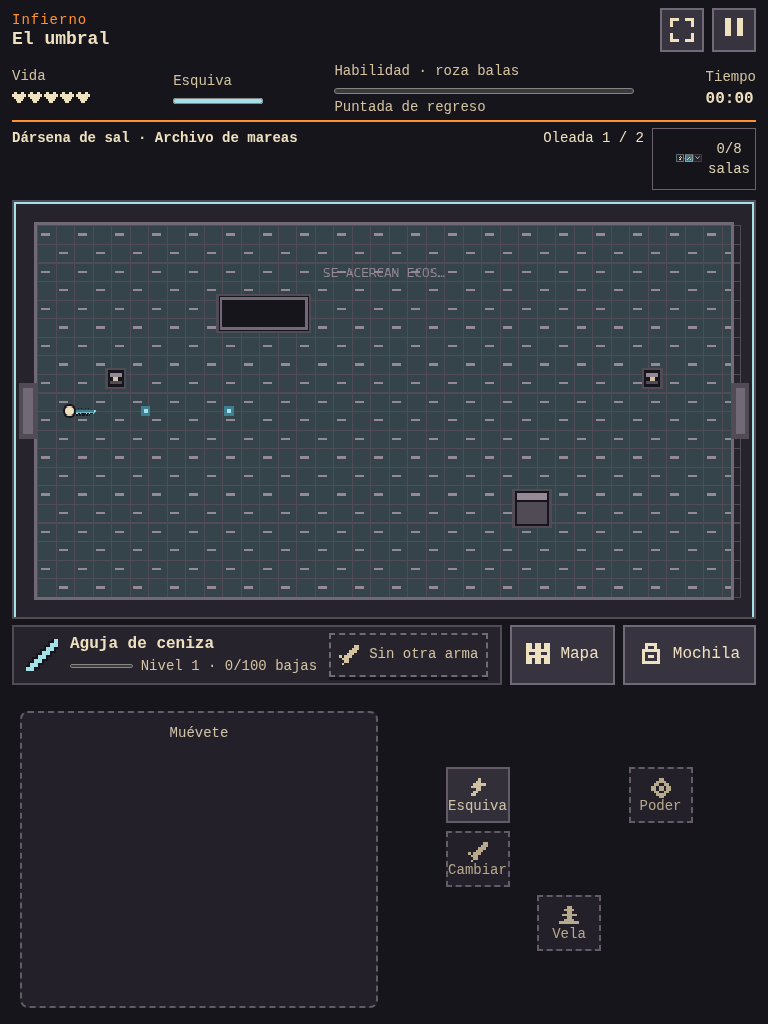
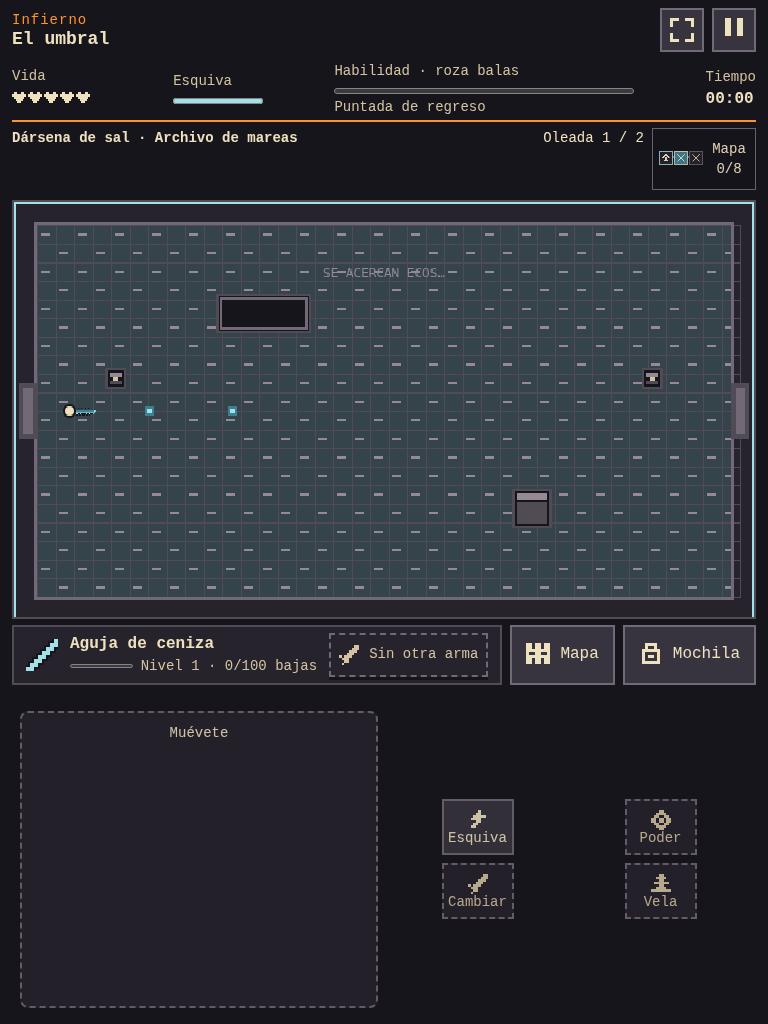
Pulir minimapa, controles móviles y fusiones y verificar la ampliación

diff --git a/src/rooms-content.js b/src/rooms-content.js
@@ -2,16 +2,16 @@ import {expansion as A,roomTemplates,eliteMarks} from './data/expansion.js';
 import {emit} from './projectiles.js';
 // Segmento/caja (slabs): también intercepta proyectiles que cruzan un pilar entero.
 export function boxHit(ax,ay,bx,by,o,r=0){let lo=0,hi=1;const dx=bx-ax,dy=by-ay;for(let axis=0;axis<2;axis++){const p=axis?ay:ax,d=axis?dy:dx,min=(axis?o.y:o.x)-r,max=(axis?o.y+o.h:o.x+o.w)+r;if(Math.abs(d)<1e-9){if(p<min||p>max)return false;}else{let a=(min-p)/d,b=(max-p)/d;if(a>b){const t=a;a=b;b=t;}lo=Math.max(lo,a);hi=Math.min(hi,b);if(lo>hi)return false;}}return true;}
-export function initRoomContent(w){w.scenery=[];w.roomDamage=0;w.roomGraze=0;w.perfectStreak=0;w.lastRank=null;w.eliteReward=false;w.roomDashes=0;w.roomAbilities=0;w.dangerEvents=Array.from({length:A.elite.eventCapacity},()=>({active:false,x:0,y:0,timer:0,kind:'',angle:0,source:null}));loadRoomContent(w);}
+export function initRoomContent(w){w.scenery=[];w.roomDamage=0;w.roomGraze=0;w.perfectStreak=0;w.lastRank=null;w.eliteReward=false;w.roomDashes=0;w.roomAbilities=0;w.dangerEvents=Array.from({length:A.elite.eventCapacity},()=>({active:false,x:0,y:0,timer:0,kind:'',angle:0,source:null,snapshot:null}));loadRoomContent(w);}
 export function loadRoomContent(w){const r=w.rooms[w.roomId];if(!r.scenery){const template=roomTemplates[w.worldIndex][((w.seed>>>0)+r.id*31+w.worldIndex*7)%8];r.template=template.id;r.scenery=['start','boss'].includes(r.kind)?[]:template.objects.map(o=>({...o,active:true,hp:Infinity}));if(!['start','boss'].includes(r.kind))for(const x of [80,544])r.scenery.push({kind:'jar',x,y:144,w:16,h:16,active:true,hp:A.scenery.jarHealth});}w.scenery=r.scenery;w.roomDamage=0;w.roomGraze=w.grazes;w.roomDashes=0;w.roomAbilities=0;w.eliteReward=false;for(const e of w.dangerEvents)e.active=false;}
 export function blocked(w,x,y,r=0){return w.scenery.some(o=>o.active&&boxHit(x,y,x,y,o,r));}
 export function resolveBody(w,body,oldX,oldY){const x=body.x,y=body.y,r=body.radius+A.scenery.bodyMargin;body.x=oldX;body.y=oldY;for(const o of w.scenery)if(o.active&&boxHit(oldX,oldY,x,oldY,o,r)){body.x=oldX;break;}else body.x=x;if(!w.scenery.length)body.x=x;for(const o of w.scenery)if(o.active&&boxHit(body.x,oldY,body.x,y,o,r)){body.y=oldY;return;}body.y=y;}
 export function hitScenery(w,b,allied){for(const o of w.scenery){if(!o.active||o.kind==='pit'||!boxHit(b.px,b.py,b.x,b.y,o,b.radius))continue;if(o.kind==='jar'&&allied){o.hp-=b.damage;if(o.hp<=0){o.active=false;w.roomCoins=Math.min(999,w.roomCoins+A.scenery.jarCoins+(w.familiars?.some(f=>f.id==='glean')?1:0));w.events.push('reward');}}b.active=false;return true;}return false;}
 export function assignMarks(w,e){e.marks=0;e.markShield=false;e.markMirror=false;e.child=false;if(!e.elite)return;const n=w.random()<A.elite.doubleChance?2:1;for(let i=0;i<n;i++){let index=Math.floor(w.random()*eliteMarks.length);if(e.marks&(1<<index))index=(index+1)%eliteMarks.length;e.marks|=1<<index;}e.markShield=!!(e.marks&1);e.markMirror=!!(e.marks&2);if(e.marks&16)e.speed*=A.elite.speed;}
-export function queueDanger(w,e,kind,angle=0){const event=w.dangerEvents.find(v=>!v.active);if(!event)return;Object.assign(event,{active:true,x:e.x,y:e.y,timer:A.elite.warning,kind,angle,source:e,health:e.maxHp});}
+export function queueDanger(w,e,kind,angle=0){const event=w.dangerEvents.find(v=>!v.active);if(!event)return;Object.assign(event,{active:true,x:e.x,y:e.y,timer:A.elite.warning,kind,angle,source:e,snapshot:kind==='divide'?{...e}:null,health:e.maxHp});}
 export function eliteHit(w,e,b){if(e.markShield){e.markShield=false;b.active=false;return true;}if(e.markMirror){e.markMirror=false;b.active=false;queueDanger(w,e,'mirror',Math.atan2(w.player.y-e.y,w.player.x-e.x));return true;}return false;}
 export function eliteDeath(w,e){if(!e.elite||e.child)return;w.roomCoins=Math.min(999,w.roomCoins+A.elite.coins);if(w.random()<A.elite.itemChance)w.eliteReward=true;if(e.marks&4)queueDanger(w,e,'divide');if(e.marks&8)queueDanger(w,e,'revenge',Math.atan2(w.player.y-e.y,w.player.x-e.x));}
-export function updateDanger(w,dt){for(const v of w.dangerEvents){if(!v.active)continue;v.timer-=dt;if(v.timer>0)continue;v.active=false;if(v.kind==='divide'){for(let n=0;n<A.elite.childCount;n++){const e=w.enemies.find(e=>!e.active&&e!==v.source),x=v.x+(n?32:-32),y=v.y;if(!e||blocked(w,x,y,12)||Math.hypot(x-w.player.x,y-w.player.y)<125||x<40||x>600)continue;Object.assign(e,v.source,{id:w.enemies.indexOf(e),active:true,x,y,hp:Math.max(2,v.health*A.elite.childHealth),maxHp:Math.max(2,v.health*A.elite.childHealth),elite:false,marks:0,markShield:false,markMirror:false,child:true,timer:1.4,warning:false,entry:0.8});for(const b of w.allies)b.hits&=~(1<<e.id);}continue;}const count=v.kind==='mirror'?1:A.elite.ringCount;for(let i=0;i<count;i++){const a=v.kind==='mirror'?v.angle:Math.PI*2*i/count;if(v.kind==='revenge'&&Math.abs(Math.atan2(Math.sin(a-v.angle),Math.cos(a-v.angle)))<A.elite.gap)continue;if(Math.hypot(v.x-w.player.x,v.y-w.player.y)<A.elite.safeRadius)continue;emit(w.hostiles,v.x,v.y,a,A.elite.ringSpeed,4,1);}}}
+export function updateDanger(w,dt){for(const v of w.dangerEvents){if(!v.active)continue;v.timer-=dt;if(v.timer>0)continue;v.active=false;if(v.kind==='divide'){for(let n=0;n<A.elite.childCount;n++){const e=w.enemies.find(e=>!e.active&&e!==v.source),x=v.x+(n?32:-32),y=v.y;if(!e||blocked(w,x,y,12)||Math.hypot(x-w.player.x,y-w.player.y)<125||x<40||x>600)continue;Object.assign(e,v.snapshot,{id:w.enemies.indexOf(e),active:true,x,y,hp:Math.max(2,v.health*A.elite.childHealth),maxHp:Math.max(2,v.health*A.elite.childHealth),elite:false,marks:0,markShield:false,markMirror:false,child:true,timer:1.4,warning:false,entry:0.8});for(const b of w.allies)b.hits&=~(1<<e.id);}continue;}const count=v.kind==='mirror'?1:A.elite.ringCount;for(let i=0;i<count;i++){const a=v.kind==='mirror'?v.angle:Math.PI*2*i/count;if(v.kind==='revenge'&&Math.abs(Math.atan2(Math.sin(a-v.angle),Math.cos(a-v.angle)))<A.elite.gap)continue;if(Math.hypot(v.x-w.player.x,v.y-w.player.y)<A.elite.safeRadius)continue;emit(w.hostiles,v.x,v.y,a,A.elite.ringSpeed,4,1);}}}
 export function completeRoomRank(w){if(w.assisted)return null;const r=w.rooms[w.roomId];if(r.rank)return r.rank;const perfect=w.roomDamage===0;const grade=perfect?(w.roomTime<=A.rank.fast||w.grazes-w.roomGraze>=A.rank.graze?'S':w.roomTime<=A.rank.steady?'A':'B'):w.roomDamage<=1?'B':w.roomDamage<=2?'C':'D';if(grade==='S'&&w.feats)w.feats.perfect++;w.perfectStreak=perfect?w.perfectStreak+1:0;const coins=A.rank.coins[grade]+(w.perfectStreak>0&&w.perfectStreak%A.rank.streakEvery===0?A.rank.streakCoins:0);w.roomCoins=Math.min(999,w.roomCoins+coins);r.rank={grade,coins,seconds:Math.round(w.roomTime),damage:w.roomDamage,grazes:w.grazes-w.roomGraze,streak:w.perfectStreak};w.lastRank=r.rank;return r.rank;}
 export function drawRoomContent(ctx,w){for(const o of w.scenery){if(!o.active)continue;ctx.fillStyle='#17151C';ctx.fillRect(o.x,o.y,o.w,o.h);ctx.strokeStyle=w.zone.detail;ctx.lineWidth=2;ctx.strokeRect(o.x,o.y,o.w,o.h);if(o.kind==='pit'){ctx.strokeStyle='#716976';ctx.strokeRect(o.x+3,o.y+3,o.w-6,o.h-6);}else{ctx.fillStyle=w.zone.accent;ctx.fillRect(o.x+3,o.y+3,o.w-6,o.kind==='jar'?4:6);ctx.fillStyle=w.zone.detail;ctx.fillRect(o.x+3,o.y+10,o.w-6,o.h-13);if(o.kind==='jar'){ctx.fillStyle='#D3C3A1';ctx.fillRect(o.x+6,o.y+7,4,3);}}}for(const v of w.dangerEvents)if(v.active){ctx.strokeStyle='#FF922E';ctx.lineWidth=2;ctx.beginPath();ctx.arc(v.x,v.y,12+v.timer*12,0,Math.PI*2);ctx.stroke();ctx.beginPath();ctx.moveTo(v.x,v.y);ctx.lineTo(v.x+Math.cos(v.angle)*32,v.y+Math.sin(v.angle)*32);ctx.stroke();}}
 export function drawEliteMarks(ctx,e){if(!e.marks)return;ctx.font='10px monospace';ctx.textAlign='center';let n=0;for(let i=0;i<eliteMarks.length;i++)if(e.marks&(1<<i)){ctx.fillStyle='#17151C';ctx.fillRect(e.x-12+n*14,e.y-36,13,12);ctx.fillStyle='#FFE34B';ctx.fillText(eliteMarks[i].icon,e.x-6+n*14,e.y-26);n++;}}

diff --git a/src/ui/catalog.js b/src/ui/catalog.js
@@ -62,4 +62,4 @@ export function catalogueDetail(e,save,shopping=true){
 export function weaponLibraryBase(save,state={}){const entries=catalogue(save).filter(e=>e.category==='weapon'||e.category==='item'&&upgrades.find(u=>u.id===e.id)?.weapon&&(save.meta.items.includes(e.id)||save.meta.seenItems.includes(e.id))),selected=entries.find(e=>e.key===state.detail);return `<section class="catalog-screen">${selected?catalogueDetail(selected,save,false):`<h2>Armas del ascenso</h2><p>Consulta estadísticas, efectos y cuatro formas. Comprar abre el arma como botín; al preparar se ofrecen tres opciones.</p>${groupedCards(entries,save)}`}</section>`;}
 export function sanctuaryScreen(save,state={}){const tabs={weapons:['Armas',['weapon']],characters:['Almas',['character']],tree:['Mejoras',['tree','reroll']],items:['Ítems',['item','super']],lore:['Lore',['lore','bestiary','skin']],urns:['Urnas',[]]},tab=Object.hasOwn(tabs,state.tab)?state.tab:'weapons',all=catalogue(save),selected=all.find(e=>e.key===state.detail);return `<section class="catalog-screen"><div class="catalog-balance" role="status">${icon('echo')} Ecos disponibles: <strong>${save.progress.echoes}</strong></div>${selected?catalogueDetail(selected,save):`${tab==='urns'?'':'<h2>Ilar, guardián del regreso</h2><p>Lee los detalles antes de confirmar una compra.</p>'}<nav class="catalog-tabs" aria-label="Secciones del Santuario">${Object.entries(tabs).map(([id,[name]])=>`<button data-catalog-tab="${id}" aria-pressed="${tab===id}">${name}</button>`).join('')}</nav>${tab==='urns'?'':`<h3>${tabs[tab][0]}</h3>`}${tab==='items'?'<p>Un catálogo de superítem no omite su condición durante la partida.</p>':''}${tab==='urns'?state.urnContent||'':groupedCards(all.filter(e=>(tabs[tab][1].includes(e.category)||tab==='weapons'&&e.category==='item'&&upgrades.find(u=>u.id===e.id)?.weapon)&&(!e.obtainOnly||e.owned)).sort((a,b)=>Number(a.owned)-Number(b.owned)),save)}${tab==='lore'?Object.values(characters).map(c=>[['memory',c.id],['ascendant',c.id+':ascendant']].filter(([,id])=>save.meta.skins.includes(id)).map(([style])=>`<button data-skin="${c.id}" data-skin-style="${style}" ${canSelect(save.progress,c)?'':'disabled'}>Vestir ${style==='memory'?'Memoria pálida':'Ascendente'} · ${c.name}</button>`).join('')).join(''):''}`}<button data-action="title">Ir al título</button></section>`;}
 
-export function weaponLibrary(save,state={}){return weaponLibraryBase(save,state)+`<h3>Maestría del arma</h3><div class="cards">${Object.values(weapons).map(g=>{const kills=save.meta.journey.kills[g.id]||0,rank=masteryRank(kills);return `<article class="side-card">${weaponImage(g.id)}<strong>${g.name}</strong><p>${kills} bajas · ${rank?A.mastery.names[rank-1]:'Sin rango'} · Metas 100/500/1500.</p><p>${rank?'El ciclo conserva la voz de quienes aprendieron a sostener esta memoria.':'Cada baja real de esta arma conserva su historia entre partidas.'}</p>${rank?`<button data-mastery-skin="${g.id}">${save.meta.journey.weaponSkins.includes(g.id)?'Quitar':'Equipar'} aspecto Voz del ciclo</button>`:''}</article>`;}).join('')}</div>`+`<h3>Altar de fusión · ${save.meta.journey.fusions.length}/8 memorias descubiertas</h3><div class=\"cards\">${fusions.map(f=>`<article class=\"side-card\">${weaponImage(f.base)}<strong>${save.meta.journey.fusions.includes(f.id)?f.name:'Fusión por descubrir'}</strong><p>${weapons[f.pair[0]].name} + ${weapons[f.pair[1]].name}</p><p>${f.text} Evoluciona a 40/100 bajas; nivel 2 añade penetración y nivel 3 activa su efecto final.</p></article>`).join('')}</div>`;}
+export function weaponLibrary(save,state={}){return weaponLibraryBase(save,state)+`<h3>Maestría del arma</h3><div class="cards">${Object.values(weapons).map(g=>{const kills=save.meta.journey.kills[g.id]||0,rank=masteryRank(kills);return `<article class="side-card">${weaponImage(g.id)}<strong>${g.name}</strong><p>${kills} bajas · ${rank?A.mastery.names[rank-1]:'Sin rango'} · Metas 100/500/1500.</p><p>${rank?'El ciclo conserva la voz de quienes aprendieron a sostener esta memoria.':'Cada baja real de esta arma conserva su historia entre partidas.'}</p>${rank?`<button data-mastery-skin="${g.id}">${save.meta.journey.weaponSkins.includes(g.id)?'Quitar':'Equipar'} aspecto Voz del ciclo</button>`:''}</article>`;}).join('')}</div>`+`<h3>Altar de fusión · ${save.meta.journey.fusions.length}/8 memorias descubiertas</h3><div class=\"cards\">${fusions.map(f=>`<article class=\"side-card\">${weaponImage(f.base)}<strong>${save.meta.journey.fusions.includes(f.id)?f.name:'Fusión por descubrir'}</strong><p>${weapons[f.pair[0]].name} + ${weapons[f.pair[1]].name}</p><p>${f.text} Daño ${f.damage} × ${f.count} cada ${f.interval} segundos. A 40 bajas: ${f.level2Text}. A 100: activa el efecto final.</p></article>`).join('')}</div>`;}

diff --git a/src/data/fusions.js b/src/data/fusions.js
@@ -1,13 +1,13 @@
 import {weapons} from './weapons.js';
 // Ocho parejas curadas: sacrificio de dos ranuras; DPS moderado a cambio de utilidad.
 export const fusions=[
- {id:'f_needle_beam',name:'Costura del testimonio',pair:['needle','beam'],base:'beam',damage:.65,interval:.14,count:1,pierce:2,finalEffect:'split',text:'Luz que atraviesa y al ascender se divide en dos.'},
- {id:'f_scatter_burst',name:'Coro de la orilla',pair:['scatter','burst'],base:'scatter',damage:.55,interval:.5,count:5,spread:.45,finalEffect:'backfan',text:'Abanico que añade una respuesta hacia atrás.'},
- {id:'f_coin_orbit',name:'Balanza del firmamento',pair:['ricochet','orbit'],base:'orbit',damage:3.6,interval:2,count:3,orbitRadius:58,finalEffect:'reflect',text:'Sellos orbitales que al ascender interceptan balas.'},
- {id:'f_area_charge',name:'Semilla del eclipse',pair:['area','charge'],base:'area',damage:6,interval:1.25,count:1,radius:42,finalEffect:'quake',text:'Sello que culmina en pulsos sobre el mismo lugar.'},
- {id:'f_homing_moon',name:'Carta que vuelve',pair:['homing','boomerang'],base:'homing',damage:1.35,interval:.3,count:1,turn:3,finalEffect:'chain',text:'Busca un enemigo y enlaza con otro al ascender.'},
- {id:'f_needle_coin',name:'Llave de carbón',pair:['needle','ricochet'],base:'ricochet',damage:1.6,interval:.34,count:1,bounces:3,finalEffect:'return',text:'Rebota tres veces y su forma final regresa.'},
- {id:'f_burst_homing',name:'Hilo de voces',pair:['burst','homing'],base:'burst',damage:1,interval:.62,count:3,projectileMode:'homing',turn:2.2,finalEffect:'frost',text:'Ráfaga guiada que termina frenando a sus víctimas.'},
- {id:'f_beam_moon',name:'Luna del testigo',pair:['beam','boomerang'],base:'boomerang',damage:1.55,interval:.6,count:1,pierce:3,finalEffect:'moon',text:'Luna penetrante que se convierte en orbital al volver.'},
+ {id:'f_needle_beam',level2:{range:460},level2Text:'Alcance de 460 píxeles',name:'Costura del testimonio',pair:['needle','beam'],base:'beam',damage:.65,interval:.14,count:1,pierce:2,finalEffect:'split',text:'Luz que atraviesa y al ascender se divide en dos.'},
+ {id:'f_scatter_burst',level2:{spread:.65},level2Text:'Abanico más abierto (0,65 radianes)',name:'Coro de la orilla',pair:['scatter','burst'],base:'scatter',damage:.55,interval:.5,count:5,spread:.45,finalEffect:'backfan',text:'Abanico que añade una respuesta hacia atrás.'},
+ {id:'f_coin_orbit',level2:{orbitRadius:66,duration:2.1},level2Text:'Órbita de 66 píxeles y duración de 2,1 segundos',name:'Balanza del firmamento',pair:['ricochet','orbit'],base:'orbit',damage:3.6,interval:2,count:3,orbitRadius:58,finalEffect:'reflect',text:'Sellos orbitales que al ascender interceptan balas.'},
+ {id:'f_area_charge',level2:{radius:50},level2Text:'Área de radio 50 píxeles',name:'Semilla del eclipse',pair:['area','charge'],base:'area',damage:6,interval:1.25,count:1,radius:42,finalEffect:'quake',text:'Sello que culmina en pulsos sobre el mismo lugar.'},
+ {id:'f_homing_moon',level2:{turn:4},level2Text:'Giro guiado de 4 radianes por segundo',name:'Carta que vuelve',pair:['homing','boomerang'],base:'homing',damage:1.35,interval:.3,count:1,turn:3,finalEffect:'chain',text:'Busca un enemigo y enlaza con otro al ascender.'},
+ {id:'f_needle_coin',level2:{range:1000},level2Text:'Alcance de 1000 píxeles',name:'Llave de carbón',pair:['needle','ricochet'],base:'ricochet',damage:1.6,interval:.34,count:1,bounces:3,finalEffect:'return',text:'Rebota tres veces y su forma final regresa.'},
+ {id:'f_burst_homing',level2:{turn:3.2},level2Text:'Ráfaga con giro de 3,2 radianes por segundo',name:'Hilo de voces',pair:['burst','homing'],base:'burst',damage:1,interval:.62,count:3,projectileMode:'homing',turn:2.2,finalEffect:'frost',text:'Ráfaga guiada que termina frenando a sus víctimas.'},
+ {id:'f_beam_moon',level2:{pierce:4},level2Text:'Atraviesa cuatro enemigos adicionales',name:'Luna del testigo',pair:['beam','boomerang'],base:'boomerang',damage:1.55,interval:.6,count:1,pierce:3,finalEffect:'moon',text:'Luna penetrante que se convierte en orbital al volver.'},
 ];
 export const arsenal={...weapons,...Object.fromEntries(fusions.map((f,i)=>[f.id,{...weapons[f.base],...f,fusion:true,shape:(i+2)%10,rarity:'epic',source:'Altar de fusión',special:f.text,tone:500+i*40}]))};

diff --git a/src/ui/minimap.js b/src/ui/minimap.js
@@ -1,5 +1,5 @@
 import {icon} from './icons.js';
 import {canEnterRoom} from '../extras.js';
 // Proyección del mismo mapa: no ocupa filas ni reduce el canvas.
-export function minimapMarkup(w){const seen=r=>!!w.memoryBonuses?.reveal||(r.visited||r.links.some(id=>w.rooms[id].visited))&&canEnterRoom(w,r);let lines='',cells='';for(const r of w.rooms){if(!seen(r))continue;const x=r.x*18+5,y=r.y*18+5;for(const id of r.links){const n=w.rooms[id];if(id>r.id&&seen(n))lines+=`<path d="M${x+7} ${y+7}L${n.x*18+12} ${n.y*18+12}" stroke="#716976" stroke-width="2"/>`;}cells+=`<g transform="translate(${x},${y})"><rect width="15" height="15" fill="${r.id===w.roomId?'#3F7F92':'#27232D'}" stroke="${r.id===w.roomId?'#EEE1BF':r.visited?'#A2E1E8':'#716976'}"/><g transform="translate(3,3)" color="${r.visited?'#EEE1BF':'#D3C3A1'}">${icon(r.kind,9)}</g></g>`;}return `<svg viewBox="0 0 100 100" aria-hidden="true" shape-rendering="crispEdges">${lines}${cells}</svg><span>${w.zoneCleared}/8 salas</span>`;}
+export function minimapMarkup(w){const seen=r=>!!w.memoryBonuses?.reveal||(r.visited||r.links.some(id=>w.rooms[id].visited))&&canEnterRoom(w,r);let lines='',cells='',minX=100,minY=100,maxX=0,maxY=0;for(const r of w.rooms){if(!seen(r))continue;const x=r.x*18+5,y=r.y*18+5;minX=Math.min(minX,x);minY=Math.min(minY,y);maxX=Math.max(maxX,x+15);maxY=Math.max(maxY,y+15);for(const id of r.links){const n=w.rooms[id];if(id>r.id&&seen(n))lines+=`<path d="M${x+7} ${y+7}L${n.x*18+12} ${n.y*18+12}" stroke="#716976" stroke-width="2"/>`;}cells+=`<g transform="translate(${x},${y})"><rect width="15" height="15" fill="${r.id===w.roomId?'#3F7F92':'#27232D'}" stroke="${r.id===w.roomId?'#EEE1BF':r.visited?'#A2E1E8':'#716976'}"/><g transform="translate(3,3)" color="${r.visited?'#EEE1BF':'#D3C3A1'}">${icon(r.kind,9)}</g></g>`;}return `<svg viewBox="${minX-3} ${minY-3} ${Math.max(24,maxX-minX+6)} ${Math.max(24,maxY-minY+6)}" aria-hidden="true" shape-rendering="crispEdges">${lines}${cells}</svg><span>Mapa<br>${w.zoneCleared}/8</span>`;}
 export function positionMinimap(){const button=document.getElementById('minimap'),stage=document.getElementById('stage'),canvas=document.getElementById('game');if(!button||!stage||!canvas)return;const box=stage.getBoundingClientRect(),field=canvas.getBoundingClientRect(),gutter=(box.width-field.width)/2,landscape=innerHeight<480;if(gutter>=156&&innerWidth>=1000){button.dataset.placement='margin';button.style.left=(box.left+6)+'px';button.style.top=(box.top+6)+'px';}else if(gutter>=112){button.dataset.placement='compact-margin';button.style.left=(box.left+4)+'px';button.style.top=(box.top+4)+'px';}else if(landscape){const hud=document.querySelector('.hud').getBoundingClientRect();button.dataset.placement='bar';button.style.left=(box.right-124)+'px';button.style.top=(hud.bottom+8)+'px';}else{const hud=document.querySelector('.hud').getBoundingClientRect();button.dataset.placement='hud';button.style.left=(hud.right-104)+'px';button.style.top=(hud.bottom+6)+'px';}const arena=document.querySelector('.arena-wrap');arena.dataset.mapPlacement=button.dataset.placement;arena.style.setProperty('--map-head-space',Math.max(0,parseFloat(button.style.left)-arena.getBoundingClientRect().left-8)+'px');}

diff --git a/styles.css b/styles.css
@@ -39,3 +39,7 @@ body[data-touch=true]{-webkit-user-select:none;user-select:none;-webkit-touch-ca
 
 .home-nav{grid-template-columns:repeat(6,1fr)}.title-actions{display:grid;grid-template-columns:1fr 1fr;gap:8px;margin:14px 0}.title-actions .play-button{grid-column:1/-1}.title-actions button{font-size:16px}.title-actions .play-button{font-size:22px}@media(max-width:600px){.home-nav{grid-template-columns:repeat(3,1fr)}.home-nav button:last-child{grid-column:auto}.title-art{height:100px}.title-screen{gap:10px}.title-copy>p{margin:4px 0}.title-actions{margin:10px 0}.progress-summary{margin:8px 0}.title-copy h1{font-size:38px}.home-nav button{min-height:56px;padding:6px}.title-screen+.first-help{margin:8px 0!important}}@media(max-height:480px){.title-actions{display:flex;margin:8px 0}.title-actions .play-button{font-size:16px}.home-nav{grid-template-columns:repeat(3,1fr)}.home-nav button{flex-direction:row;min-height:44px}.home-nav button svg{display:none}}
 .story-panels{display:grid;grid-template-columns:repeat(3,minmax(0,1fr));gap:12px}.story-panels figure{margin:0;background:var(--panel);border:2px solid var(--line);padding:8px;min-width:0}.story-panels canvas{width:100%;height:140px;object-fit:cover}.story-panels figcaption{font-size:16px;padding:8px 0}.story-scene>button{margin:12px 0}.transfer-panel textarea{width:100%;display:block;min-height:110px;color:var(--paper);background:var(--panel);font:inherit;resize:vertical}.transfer-panel label{display:block;margin:12px 0}.transfer-panel input[type=file]{max-width:100%;min-height:44px}#transfer-message{color:var(--cyan)}#candle-button{width:auto;max-width:175px}@media(max-width:600px){.story-panels{grid-template-columns:1fr}.story-panels figure{display:grid;grid-template-columns:85px 1fr;gap:12px}.story-panels canvas{height:85px}.story-panels figcaption{padding:0}}@media(max-height:480px) and (pointer:fine){.hud{padding-right:220px}}
+
+/* Cuatro acciones: etiquetas completas y sin añadir carriles al campo. */
+.touch-actions button{width:max(72px,var(--control-size));max-width:100%}.touch-actions button:last-child{grid-column:auto}.touch-actions{column-gap:8px;row-gap:8px}
+@media(orientation:landscape){body[data-touch=true]:not([data-manual-aim=true]) .touch-actions{grid-template-columns:1fr;grid-template-rows:repeat(4,minmax(44px,1fr));height:100%;max-height:calc(var(--control-size)*4 + 24px)}body[data-touch=true]:not([data-manual-aim=true]) .touch-actions button{height:100%;max-height:var(--control-size)}body[data-touch=true][data-manual-aim=true] .touch-actions{grid-template-columns:repeat(2,minmax(72px,1fr))}}

diff --git a/src/evolution.js b/src/evolution.js
@@ -3,7 +3,7 @@ import {arsenal as weapons} from './data/fusions.js';
 import {forms,evolutionEffects as E} from './data/evolutions.js';
 import {depth as D} from './data/depth.js';
 import {emit} from './projectiles.js';
-export function buildForms(id){const base=weapons[id],result=[];if(base.fusion)return [0,1,2].map(n=>({...base,level:n+1,damage:base.damage*(1+n*.12),pierce:(base.pierce||0)+(n>=1?1:0),finalEffect:n===2?base.finalEffect:'',skin:'base'}));let changes={};for(let index=0;index<4;index++){changes={...changes,...forms[id][index]};result.push({...base,...changes,id,level:index+1,damage:base.damage*(changes.damageFactor||1)*D.evolution.damage[index]});}return result;}
+export function buildForms(id){const base=weapons[id],result=[];if(base.fusion)return [0,1,2].map(n=>({...base,...(n>=1?base.level2:{}),level:n+1,damage:base.damage*A.fusion.damage[n],finalEffect:n===2?base.finalEffect:'',skin:'base'}));let changes={};for(let index=0;index<4;index++){changes={...changes,...forms[id][index]};result.push({...base,...changes,id,level:index+1,damage:base.damage*(changes.damageFactor||1)*D.evolution.damage[index]});}return result;}
 export function initEvolution(w){w.weaponProgress=Object.fromEntries(Object.keys(weapons).map(id=>[id,{kills:0,shots:0,level:1,bonus:0}]));w.weaponForms=Object.fromEntries(Object.keys(weapons).map(id=>[id,buildForms(id)]));w.allowedWeapons=Object.keys(weapons);w.evolutionPulse=0;w.reflectCooldown=0;}
 export function creditWeaponKill(w,id){const progress=w.weaponProgress[id];if(!progress)return;progress.kills++;if(id==='needle'&&w.inventory.urn_cinder&&progress.kills%w.weaponMemories.needle.evolveEvery===0)progress.bonus++;const level=1+(weapons[id].fusion?A.fusion.thresholds:D.evolution.thresholds).filter(n=>progress.kills+(progress.bonus||0)>=n).length;if(level>progress.level){w.discoveryRevision++;progress.level=level;w.evolutionPulse=E.pulse;w.events.push('evolve');}}
 export function startingChoices(w,unlocked){const own=w.character.weapon,available=unlocked.filter(id=>weapons[id]&&id!==own);const choices=[{id:own,loan:!unlocked.includes(own)}];while(choices.length<3){const pool=available.length?available:Object.keys(weapons).filter(id=>!weapons[id].fusion&&!choices.some(c=>c.id===id));const id=pool[Math.floor(w.random()*pool.length)];choices.push({id,loan:!unlocked.includes(id)});const n=available.indexOf(id);if(n>=0)available.splice(n,1);}return choices;}

diff --git a/src/simulation.js b/src/simulation.js
@@ -1,3 +1,4 @@
+import {difficulties} from './data/depth.js';
 import {assistStats} from './assistance.js';
 import {initFeats,weeklyRoom} from './progression.js';
 import {initAdventure,configureAdventureRooms,updateAdventure,adventureReward,configureRival,rivalAttack,rivalReward} from './adventure.js';
@@ -100,7 +101,7 @@ function spawnWave(world){
 }
 export function advanceWorld(world){
  if(world.status!=='transition'||world.worldIndex+1>=worlds.length&&!world.spiral)return false;if(world.spiral&&world.worldIndex+1>=worlds.length)world.worldIndex=-1;
- world.worldIndex++;if(world.spiral){const loops=Math.floor(world.spiralDepth/6);world.rules={...world.rules,health:1+Math.min(A.spiral.maxHealth,loops*A.spiral.healthStep),speed:1+Math.min(A.spiral.maxSpeed,loops*A.spiral.speedStep),extraPhases:Math.min(2,loops)};}world.zone=worlds[world.worldIndex];world.rooms=generateMap((world.seed+world.worldIndex*7919)>>>0);for(const r of world.rooms)if(world.zone.rooms?.[r.id])r.name=world.zone.rooms[r.id];configureSideRooms(world);configureAdventureRooms(world);world.roomId=0;world.zoneCleared=0;world.wave=0;world.spawnTimer=1.4;world.bossPhase=0;world.exitLock=0.7;world.roomTime=0;
+ world.worldIndex++;if(world.spiral){const loops=Math.floor(world.spiralDepth/6);world.rules={...world.rules,health:difficulties[world.difficultyIndex].health*(1+Math.min(A.spiral.maxHealth,loops*A.spiral.healthStep)),speed:difficulties[world.difficultyIndex].speed*(1+Math.min(A.spiral.maxSpeed,loops*A.spiral.speedStep)),extraPhases:difficulties[world.difficultyIndex].extraPhases+Math.min(2,loops)};}world.zone=worlds[world.worldIndex];world.rooms=generateMap((world.seed+world.worldIndex*7919)>>>0);for(const r of world.rooms)if(world.zone.rooms?.[r.id])r.name=world.zone.rooms[r.id];configureSideRooms(world);configureAdventureRooms(world);world.roomId=0;world.zoneCleared=0;world.wave=0;world.spawnTimer=1.4;world.bossPhase=0;world.exitLock=0.7;world.roomTime=0;
  clearBullets(world);for(const e of world.enemies)e.active=false;
  world.player.x=320;world.player.y=180;heal(world,2+(world.inventory.dawn?1:0));world.player.invulnerable=1.5;
  resetHazard(world);loadRoomContent(world);world.status='playing';world.events.push('reward');return true;

diff --git a/src/data/expansion.js b/src/data/expansion.js
@@ -6,7 +6,7 @@ export const expansion = {
  candles:{capacity:4,dropEvery:3,cost:3,clearRadius:100,slow:0.6,seconds:3,heal:1},
  familiar:{capacity:2,cost:6,blockCooldown:2,shotCooldown:1,damage:1,speed:220,range:300,mark:0.08},
  rival:{health:60,healthPerWorld:18,maxHealth:160,speed:34,maxDamage:1,warning:1,interval:2.2,bulletSpeed:90,reward:4,items:3},
- fusion:{thresholds:[40,100],maxLevel:3},
+ fusion:{thresholds:[40,100],maxLevel:3,damage:[1,1.12,1.24]},
  mastery:{kills:[100,500,1500],names:['Voz','Memoria','Testimonio'],victories:[1,3,10]},
  profile:{spentPerPoint:1,runPoints:10,levels:[0,60,180,400,800],titles:['Recién llegado','Portador de ecos','Guardián del hilo','Voz del ciclo','Memoria compartida']},
  spiral:{healthStep:0.12,maxHealth:1.2,speedStep:0.02,maxSpeed:0.16,echoes:3},

diff --git a/src/depth-views.js b/src/depth-views.js
@@ -6,7 +6,7 @@ import {upgrades} from './data.js';
 import {price} from './meta-game.js';
 import {achievements,difficulties} from './data/depth.js';
 import {recipes,superItems,mythologies} from './data/relics.js';
-import {weapons} from './data/weapons.js';
+import {arsenal as weapons} from './data/fusions.js';
 import {depth as D} from './data/depth.js';
 export function extraPanel(screen,w,save,state={}){
  if(screen==='codex'&&state.detail&&!state.detail.startsWith('weapon:')){const entry=catalogue(save).find(e=>e.key===state.detail);if(entry)return `<section class="catalog-screen">${catalogueDetail(entry,save)}</section>`;}

diff --git a/GDD.md b/GDD.md
@@ -1,9 +1,9 @@
 # El umbral — título de trabajo
 
 ## Visión y estado
-**Estado actual:** ronda de campo/minimapa/recuerdos/urnas implementada; lista para prueba del usuario.
+**Estado actual:** ampliación del ciclo A–D implementada y comprobada; lista para prueba humana.
 El historial de entregas anteriores se conserva debajo.
-Las fases 6–8 de interfaz están pendientes. La campaña y el balance se conservan.
+La campaña de seis mundos se conserva. Los apartados anteriores son historial; el estado vigente figura en los últimos apartados de ampliación.
 
 Bullet hell roguelike cenital original para PC y móviles: Canvas + módulos JavaScript + CSS,
 sin motor ni dependencias para jugar. Ascenso del infierno al cielo, inspirado en
@@ -349,3 +349,15 @@ retos la desactivan. Tarjeta PNG960×640 descargable/compartible.
 81 pruebas lógicas y navegador nuevo pasan en cuatro tamaños: transferencia real,
 respaldo, semanal neutral, vela táctil, escenas y archivo PNG. PWA63 recursos.
 Pruebas humanas de duración/comodidad en teléfonos físicos siguen pendientes.
+
+## Cierre de ampliación del ciclo
+Minimapa ampliado al área descubierta y rotulado «Mapa»; acceso Urnas en el título.
+Cuatro acciones táctiles legibles sin ampliar los carriles del campo. Fusiones:
+segundo nivel con cambio propio de alcance, giro, órbita o área; tercero con efecto
+final. La tabla de armas incluye las ocho fusiones. Espiral conserva la dificultad
+base elegida. Se corrige el resumen de resultados de armas fusionadas.
+82 pruebas lógicas pasan. Navegador comprueba combate/campaña, perfiles, cuatro
+tamaños, multitoque, migración, transferencia y PNG. Capturas actuales en
+`docs/capturas/ampliacion/`. Campos del guardado antiguo y v3 conservados.
+No se afirma que la duración humana, diversión ni rendimiento en un teléfono real
+estén certificados: quedan para jugar y ajustar con observaciones del usuario.

diff --git a/docs/diseno-ui.md b/docs/diseno-ui.md
@@ -206,3 +206,27 @@ Glosario adicional:
 - Crédito de evolución: progreso adicional de un arma; no es otra baja ni añade
   recompensas por enemigos. El HUD distingue bajas reales y créditos con «+».
 - Fragmento: historia conocida; cuenta para una condición del final verdadero.
+
+## Ampliación del ciclo — implementada
+Título: Jugar principal, Diaria y Más modos; navegación incluye Urnas. Más modos
+abre Semanal/Espiral. Perfil neutral para retos. Minimapa ajusta la vista al área
+descubierta y dice Mapa; contador /8 y botón amplían el mapa pausado.
+Cuatro acciones táctiles (Esquiva/Poder/Cambiar/Vela): 2×2 en vertical y apuntado
+manual, columna en horizontal automático. Mantienen los carriles existentes,
+objetivos≥44px y etiquetas completas. Mochila también describe velas/familiares.
+Opciones: volúmenes independientes, asistencia para próxima partida y transferencia
+con archivo/código, vista previa, confirmación y respaldo. Resultado: PNG descargable.
+Transiciones: tres viñetas animadas omitibles. Introducción consultable en preparación.
+
+Glosario añadido:
+- Marca élite: propiedad visible de un enemigo fuerte; conserva aviso de ataque.
+- Rango de sala: D–S según tiempo/daño/roces; solo concede fichas, nunca las quita.
+- Vela: consumible de un uso; una activa y hasta tres en cola.
+- Alma guía: familiar temporal; como máximo dos.
+- Fusión: sacrificio voluntario de dos armas compatibles por una de tres formas.
+- Maestría: bajas acumuladas por arma, con recompensas cosméticas.
+- Recuerdo personal: cadena de tres objetivos de un personaje.
+- Espiral: recorrido opcional sin fin desbloqueado tras una victoria.
+- Reto semanal: misma semilla y mutador desde el lunes UTC, sin ventajas permanentes.
+- Partida asistida: ayudas opcionales; conserva progreso, sin rangos ni marcas.
+- Respaldo: copia del perfil anterior a una importación; se puede descargar.

diff --git a/docs/balance.md b/docs/balance.md
@@ -251,3 +251,22 @@ Estrategia simple, sin invulnerabilidad; no certifica justicia humana.
 | 42 | dead | 8 | 37 | 107.3 | 0 |
 | 123 | dead | 8 | 36 | 97.1 | 0 |
 | 2026 | dead | 3 | 10 | 27.3 | 0 |
+
+## Ampliación del ciclo: límites finales
+Salas:48 configuraciones regionales basadas en ocho planos, pasillos centrales
+libres, hasta8 elementos. Vasijas2PV/+1 ficha. Élite: probabilidad3%+1,8 puntos/mundo
+más dificultad(tope40%);22% de llevar dos marcas. Reflejo/anillo avisan0,8s,
+radio de exclusión60px, anillo10 balas/80px por segundo con hueco0,62rad.
+División:dos hijos de28%PV, sin heredar marcas ni dividirse de nuevo.
+Rango:0–3 fichas y +1 cada tres perfectas, sin penalización. Familiar máximo2,
+apoyo1 daño/s, bloqueo1/2s, señalador+8%, recolector+1 ficha/vasija. Precio6 fichas.
+Velas cada3 salas, tienda3 fichas, cola total4; tiempo×0,6 durante3s.
+Rival60+18PV por mundo,+3 por recuerdo(max3), tope160, daño1; premio4ecos.
+Fusiones: ocho, formas a40/100 bajas, daño×1/1,12/1,24; DPS ideal en
+`node scripts/weapon-balance.mjs`, excluye fallos y efectos secundarios indicados.
+Espiral por vuelta:vida+12%(tope+120%), bala+2%(tope+16%), hasta2 fases extra
+sobre dificultad elegida;3ecos por mundo. Maestría100/500/1500, solo cosmética.
+Objetivo personal final:+2% de carga base por roce, sin efecto en retos.
+Asistencia: bala×0,7–1, vida+1(tope8), hitbox×0,8, refugio+1 antes de ajustes.
+Urnas:38 recompensas al sumar dos catálogos de familiares; mismas probabilidades,
+garantías y devolución. No añaden poder permanente al inicio.
